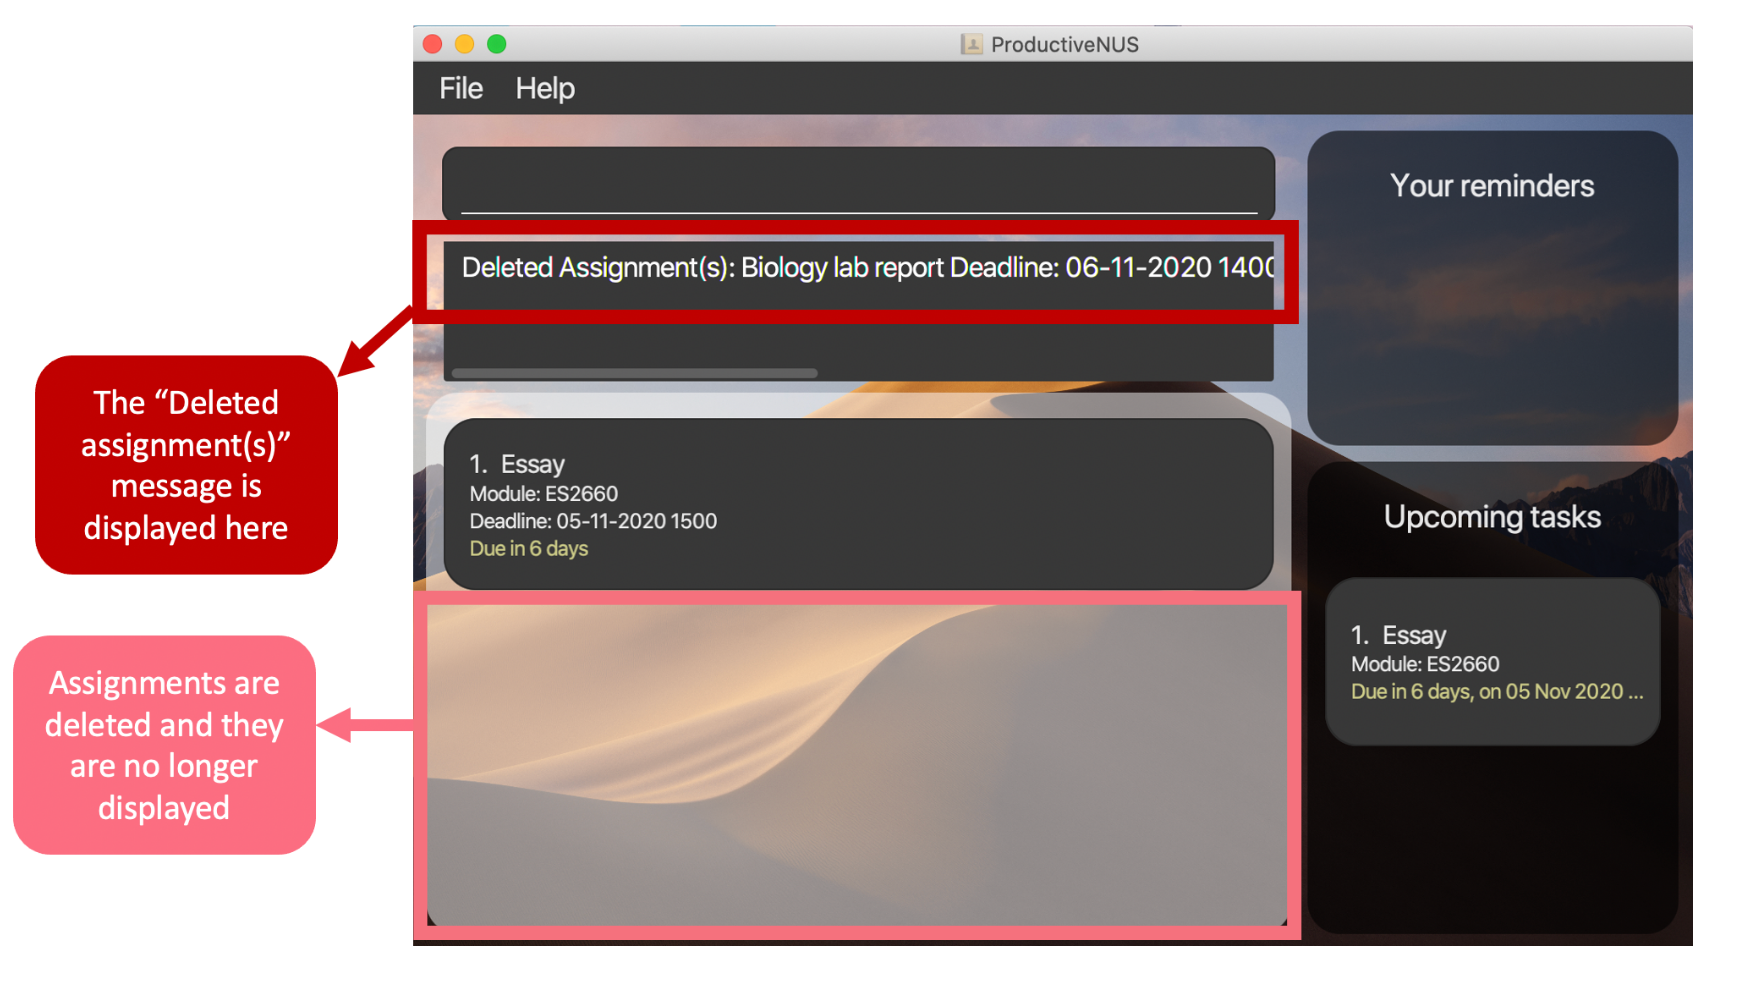
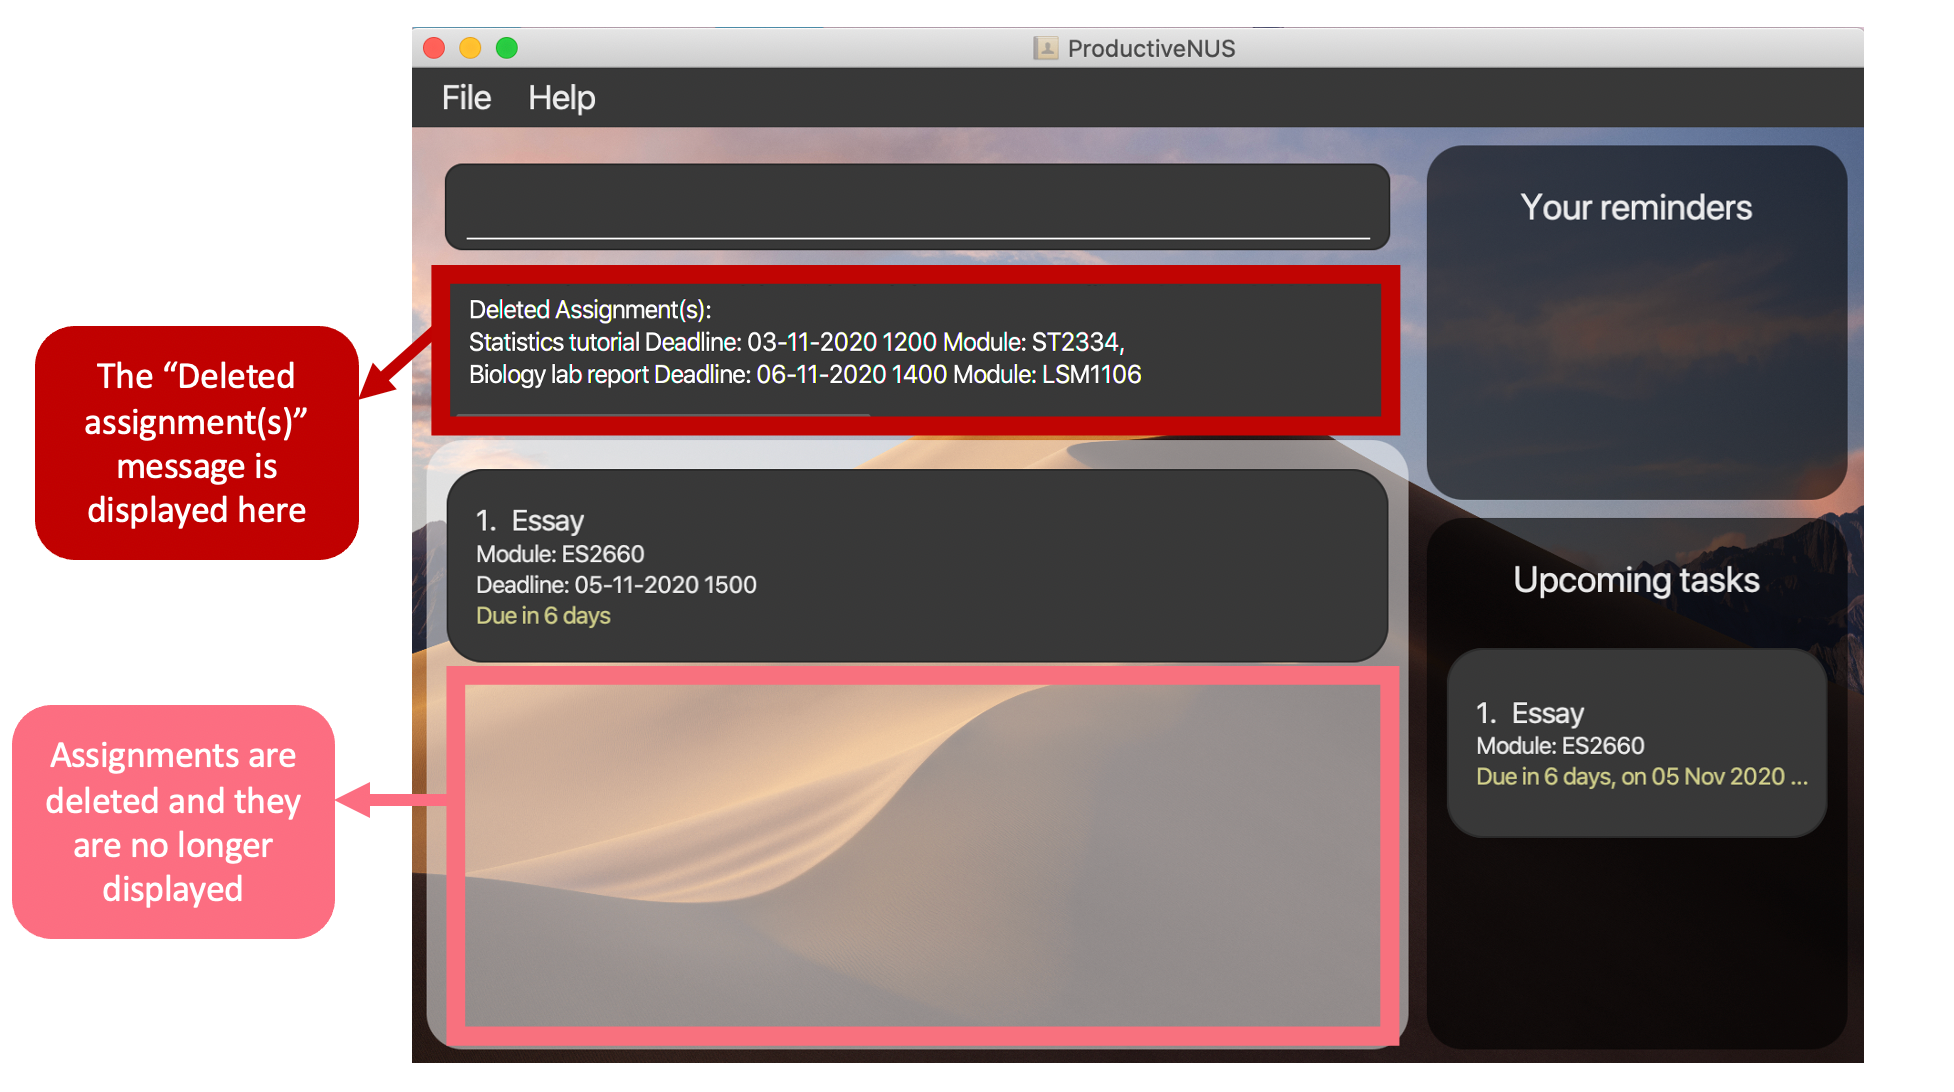
Update diagrams

Changed region(s): [[0.0, 0.0, 0.9903, 0.9746], [0.5261, 0.0305, 0.6499, 0.0609]]

diff --git a/docs/UserGuide.md b/docs/UserGuide.md
@@ -321,7 +321,7 @@ Here is an example with steps for you to follow:
 
 3) A message that indicates details of the edited assignment is displayed in the Message Box.
 
-![EditCommand2](images/EditCommand2.png)
+![EditCommand2](images/EditCommandDiagram2.png)
 *Figure 13: The displayed message and the edited assignment*
 
 More examples: 
